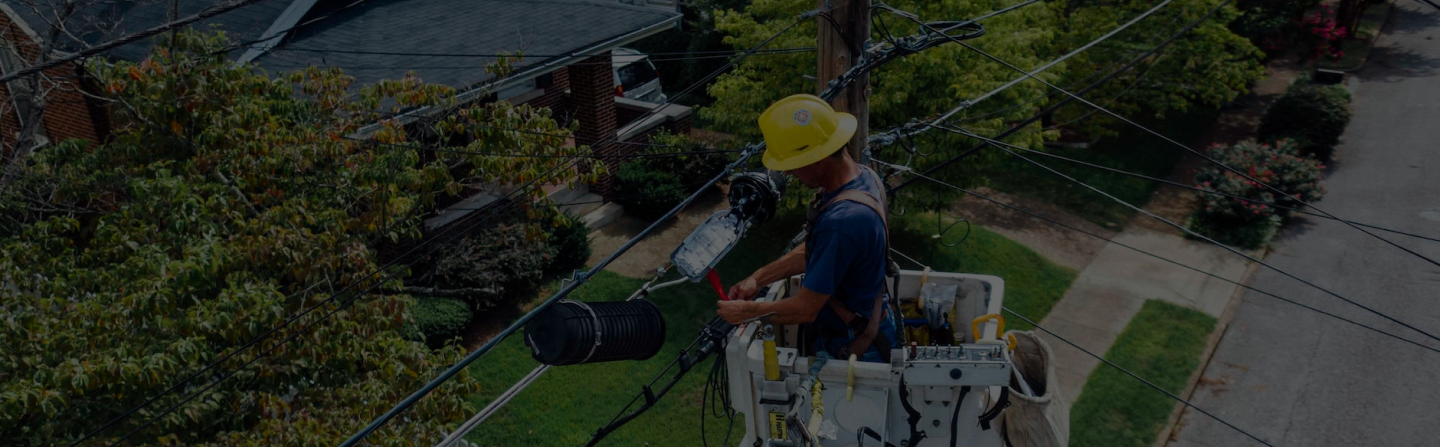
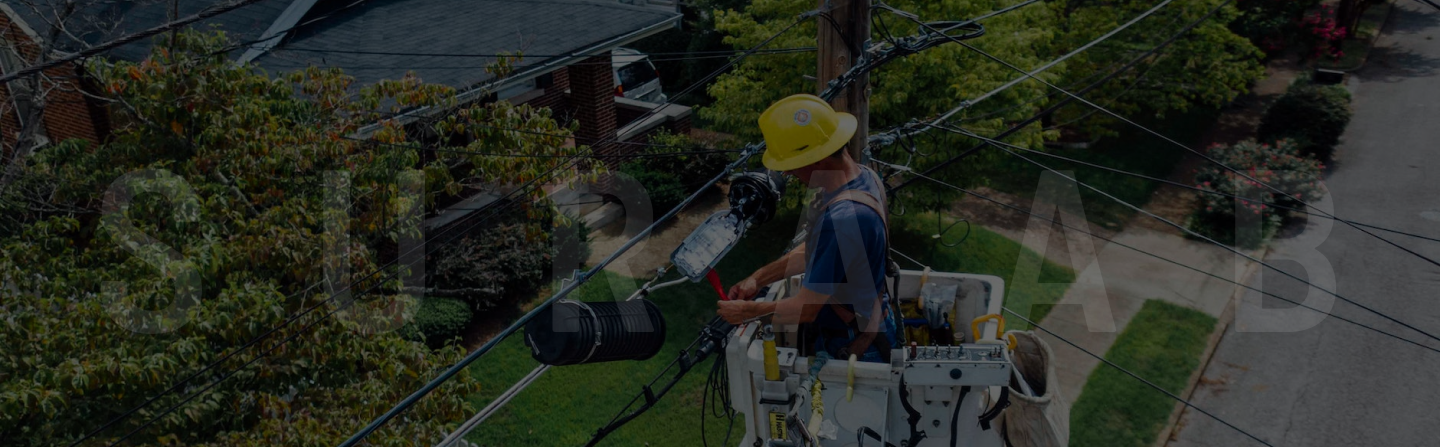
update: added backdrop images

diff --git a/src/pages/service/content/section2/Section2.jsx b/src/pages/service/content/section2/Section2.jsx
@@ -20,20 +20,20 @@ const Section2 = () => {
             />
             <div className="grid grid-cols-1 gap-4">
               <h4 className="medium-text text-center lg:text-start">Electrical Troubleshooting</h4>
-              <p className=" text-center lg:text-start">
+              <p className=" text-center lg:text-start w-full lg:w-11/12">
                 Lorem ipsum dolor sit amet consectetur. Eget fames dignissim dui
-                eu quam quisque nunc in. Nam <br /> auctor vulputate ultrices
-                tincidunt. Mus quis dignissim adipiscing viverra et. Rutrum sit <br />
+                eu quam quisque nunc in. Nam auctor vulputate ultrices
+                tincidunt. Mus quis dignissim adipiscing viverra et. Rutrum sit
                 sem pellentesque laoreet arcu nisl imperdiet. Sodales lectus
-                consequat dignissim <br /> facilisis in at in vivamus magna.
+                consequat dignissim facilisis in at in vivamus magna.
               </p>
-              <h4 className="medium text-center lg:text-start">Our Installation Methods</h4>
+              <h4 className="text-xl font-semibold text-center lg:text-start">Our Installation Methods</h4>
               <div className="flex  gap-2 items-center">
                 <span>
                   <img src={check} alt="" />
                 </span>
-                <p>
-                  We bring a level of craftsmanship to our projects that <br />
+                <p className="w-full lg:w-1/2">
+                  We bring a level of craftsmanship to our projects that 
                   reflects our dedication to quality and precision.
                 </p>
               </div>
@@ -41,9 +41,9 @@ const Section2 = () => {
                 <span>
                   <img src={check} alt="" />
                 </span>
-                <p className="pb-2">
-                  Subhar Electricals introduces innovative practices to <br /> enhance
-                  the efficiency and sustainability of electrical <br /> systems.
+                <p className="pb-2 w-full lg:w-1/2">
+                  Subhar Electricals introduces innovative practices to enhance
+                  the efficiency and sustainability of electrical systems.
                 </p>
               </div>
              <div className="flex justify-center lg:justify-start">
@@ -59,19 +59,19 @@ const Section2 = () => {
             />
             <div className="grid grid-cols-1 gap-3">
               <h4 className="medium-text text-center lg:text-start">Lighting Installations</h4>
-              <p className="text-center lg:text-start">
+              <p className="text-center lg:text-start w-full lg:w-11/12">
                 Lorem ipsum dolor sit amet consectetur. Eget fames dignissim dui
                 eu quam quisque nunc in. Nam auctor vulputate ultrices
                 tincidunt. Mus quis dignissim adipiscing viverra et. Rutrum sit
                 sem pellentesque laoreet arcu nisl imperdiet. Sodales lectus
                 consequat dignissim facilisis in at in vivamus magna.
               </p>
-              <h4 className="medium-text text-center lg:text-start">Our Installation Methods</h4>
+              <h4 className="text-xl font-semibold text-center lg:text-start">Our Installation Methods</h4>
               <div className="flex gap-2 items-center">
                 <span>
                   <img src={check} alt="" />
                 </span>
-                <p className="">
+                <p className="w-full lg:w-1/2">
                   We bring a level of craftsmanship to our projects that
                   reflects our dedication to quality and precision.
                 </p>
@@ -80,7 +80,7 @@ const Section2 = () => {
                 <span>
                   <img src={check} alt="" />
                 </span>
-                <p className="pb-2">
+                <p className="pb-2 w-full lg:w-1/2">
                   Subhar Electricals introduces innovative practices to enhance
                   the efficiency and sustainability of electrical systems.
                 </p>
@@ -99,9 +99,8 @@ const Section2 = () => {
             />
             <div className="grid grid-cols-1 gap-3">
               <h4 className="medium-text text-center lg:text-start">Electrical Maintenance</h4>
-              <p className=" text-center lg:text-start pb-2">
-              Lorem ipsum dolor sit amet consectetur. Fermentum ut arcu morbi turpis neque. Amet malesuada vivamus egestas rhoncus ultrices. Phasellus aliquam magna aliquam pellentesque pretium. Quis vitae molestie aliquam nibh tincidunt in quam vestibulum. Tortor eget varius diam mauris volutpat vitae urna. Adipiscing imperdiet interdum pellentesque nulla convallis mattis quam. Ultrices porttitor ridiculus ac sed odio vitae lorem. Pellentesque ac pulvinar magna aliquet dictumst. Nulla diam lorem id orci gravida. Quam dictum sed sit bibendum et congue vel dui. Egestas tincidunt nec sit rhoncus nibh. Quis risus vestibulum risus pretium in neque malesuada amet lobortis.
-Habitant molestie in eget et dictumst. Praesent eu sed sollicitudin urna tempor senectus eros. Placerat ut nunc.
+              <p className=" text-center lg:text-start pb-2 w-full lg:w-11/12">
+              Lorem ipsum dolor sit amet consectetur. Fermentum ut arcu morbi turpis neque. Amet malesuada vivamus egestas rhoncus ultrices. Phasellus aliquam magna aliquam pellentesque pretium. Quis vitae molestie aliquam nibh tincidunt in quam vestibulum. Tortor eget varius diam mauris volutpat vitae urna. Adipiscing imperdiet interdum pellentesque nulla convallis mattis quam. Ultrices porttitor ridiculus ac sed odio vitae lorem. Pellentesque ac pulvinar magna aliquet dictumst. Nulla diam lorem id orci gravida. Quam dictum sed sit bibendum et congue vel dui. Egestas tincidunt nec sit rhoncus nibh. Quis risus vestibulum risus pretium in neque malesuada amet lobortis.Habitant molestie in eget et dictumst. Praesent eu sed sollicitudin urna tempor senectus eros. Placerat ut nunc.
               </p>
              
               <div className="flex justify-center lg:justify-start">

diff --git a/src/layout/sharedLayout/why/WhySection.jsx b/src/layout/sharedLayout/why/WhySection.jsx
@@ -8,17 +8,17 @@ const WhySection = () => {
     <div className="bg-red-500">
       <div className="w-11/12 mx-auto text-white-100 text-center lg:text-left leading-9 py-14 responsive">
         <div className="py-3">
-          <h3 className="text-center text-white-100 medium-text">WHY SURAAB ?</h3>
-          <h2 className="text-center text-white-100 large-text py-5 w-full lg:w-2/3 mx-auto">
+          <h4 className="text-center text-white-100 medium-text">WHY SURAAB</h4>
+          <h1 className="text-center text-white-100 large-text py-3 w-full lg:w-3/4 mx-auto">
             Lorem ipsum dolor sit amet consectetur. Lobortis porttitor
-          </h2>
+          </h1>
         </div>
         <div className="py-5 grid grid-cols-1 gap-5 lg:grid-cols-3 lg:gap-10">
           <div className="flex flex-col gap-4 justify-center lg:justify-start items-center lg:items-start">
             <div className="img-card justify-center lg:justify-start items-center lg:items-start">
               <img className=" " src={experience} alt="" />
             </div>
-            <h1 className="text-white-100 large-text">Premium Service</h1>
+            <h1 className="text-white-100 medium-text">Premium Service</h1>
             <p>
               Lorem ipsum dolor sit amet consectetur. Lobortis porttitor
               condimentum fusce nisl. Ultricies cursus amet ut porttitor
@@ -31,7 +31,7 @@ const WhySection = () => {
             <div className="img-card  flex justify-center lg:justify-start items-center lg:items-start">
               <img className="" src={shield} alt="" />
             </div>
-            <h1 className="text-white-100 large-text">Experienced Team</h1>
+            <h1 className="text-white-100 medium-text">Experienced Team</h1>
             <p>
               Lorem ipsum dolor sit amet consectetur. Lobortis porttitor
               condimentum fusce nisl. Ultricies cursus amet ut porttitor
@@ -43,7 +43,7 @@ const WhySection = () => {
             <div className="img-card flex justify-center lg:justify-start items-center lg:items-start">
               <img className="" src={pricing} alt="" />
             </div>
-            <h1 className="text-white-100 large-text">Affordable Pricing</h1>
+            <h1 className="text-white-100 medium-text">Affordable Pricing</h1>
             <p>
               Lorem ipsum dolor sit amet consectetur. Lobortis porttitor
               condimentum fusce nisl. Ultricies cursus amet ut porttitor

diff --git a/src/layout/sharedLayout/testimonial/Testimonial.jsx b/src/layout/sharedLayout/testimonial/Testimonial.jsx
@@ -5,7 +5,7 @@ const Testimonial = () => {
   return (
     <div>
       <div className=" w-11/12 mx-auto py-10 responsive ">
-        <p className="text-center large-text">WHAT OUR CUSTOMERS SAY</p>
+        <p className="text-center medium-text font-bold text-black-100 pb-3">WHAT OUR CUSTOMERS SAY</p>
         <h2 className="text-red-400 text-center large-text">
           Don’t Just Take Our Word For It.
         </h2>
@@ -13,7 +13,7 @@ const Testimonial = () => {
         <div className="p-7 border-x-black-500 border-2 relative">
             <img src={apostropheR} className=' absolute top-7 right-0 px-3' alt="" />
             <img src={apostropheL} alt="" className='absolute top-7 left-0 px-3'  />
-            <p className="medium-text px-3 ">
+            <p className=" px-3 text-base lg:text-lg font-medium ">
               Lorem ipsum dolor sit amet consectetur. Sed iaculis et sapien
               neque. Lectus felis eu adipiscing dolor ut eget iaculis mauris
               nec. Purus rhoncus vel id tortor nulla dictum duis at vestibulum.
@@ -22,7 +22,7 @@ const Testimonial = () => {
               Vivamus diam enim commodoi.
             </p>
           
-            <div className='flex justify-center items-center gap-4 py-4'>
+            <div className='flex justify-center items-center gap-4 py-5'>
               <span>
                 <img className='profile-img' src={profileImg} alt="" />
               </span>
@@ -35,7 +35,7 @@ const Testimonial = () => {
           <div className="p-7 border-x-black-500 border-2 relative">
             <img src={apostropheR} className=' absolute top-7 right-0 px-3' alt="" />
             <img src={apostropheL} alt="" className='absolute top-7 left-0 px-3'  />
-            <p className="medium-text px-3 ">
+            <p className="text-base lg:text-lg px-3 font-medium ">
               Lorem ipsum dolor sit amet consectetur. Sed iaculis et sapien
               neque. Lectus felis eu adipiscing dolor ut eget iaculis mauris
               nec. Purus rhoncus vel id tortor nulla dictum duis at vestibulum.
@@ -44,7 +44,7 @@ const Testimonial = () => {
               Vivamus diam enim commodo.
             </p>
           
-            <div className='flex justify-center items-center gap-4 py-4'>
+            <div className='flex justify-center items-center gap-4 py-5'>
               <span>
                 <img className=' profile-img' src={profileImg} alt="" />
               </span>

diff --git a/src/pages/home/content/Section3/Section3.jsx b/src/pages/home/content/Section3/Section3.jsx
@@ -10,21 +10,21 @@ const Section3 = () => {
     <div className=' section-body py-14 '>
         <div className='w-11/12 responsive text-center'>
         <div className='text-center '>
-            <p className='medium-text'>OUR SERVICES</p>
+            <h4 className='medium-text text-black-100'>OUR SERVICES</h4>
             <h1 className='large-text  w-full lg:w-6/12 mx-auto'>Explore Our Services At Suraab Electricals</h1>
         </div>
         <div className='grid grid-cols-1 gap-14 lg:grid-cols-3 py-10'>
-            <div className='bg-white-100 p-6 flex justify-center items-center flex-col gap-5 img-box '>
+            <div className='bg-white-100 p-5 flex justify-center items-center flex-col gap-5 img-box '>
               <img src={trouble_shooting} alt="" />
               <h1 className='medium-text'>Electrical Trouble Shooting</h1>
               <p>We bring a level of craftsmanship to our projects that reflects our dedication to quality and precision.</p>
             </div>
-            <div className='bg-white-100 p-6 flex justify-center items-center flex-col gap-5 img-box'>
+            <div className='bg-white-100 p-5 flex justify-center items-center flex-col gap-5 img-box'>
               <img src={lightning} alt="" />
               <h1 className='medium-text'>Lightning Installations</h1>
               <p>We bring a level of craftsmanship to our projects that reflects our dedication to quality and precision.</p>
             </div>
-            <div className='bg-white-100 p-6 flex justify-center items-center flex-col gap-5 img-box'>
+            <div className='bg-white-100 p-5 flex justify-center items-center flex-col gap-5 img-box'>
               <img src={maintenance} alt="" />
               <h1 className='medium-text'>Electrical Maintenance</h1>
               <p>We bring a level of craftsmanship to our projects that reflects our dedication to quality and precision.</p>

diff --git a/src/pages/home/content/Section2/Section2.jsx b/src/pages/home/content/Section2/Section2.jsx
@@ -21,9 +21,9 @@ const Section2 = () => {
                 </div>
               <div className='relative'>
               <div className='bg-white-100 shadow-2xl p-7 z-20 xl:absolute lg:-top-32 xl:-top-36 xl:-left-12 '>
-                    <p className='py-4 text-center lg:text-start medium-text'>WHO WE ARE</p>
-                    <h1 className='large-text text-center lg:text-start'>Lorem ipsum dolor sit amet consectetur. Cras lorem.</h1>
-                    <p className='medium-text text-center lg:text-start'>Lorem ipsum dolor sit amet consectetur. Quam non habitasse vel nam tincidunt odio arcu. Et lacus commodo in leo faucibus vel volutpat suscipit. Eu natoque nullam diam augue quam non. Ut adipiscing augue dui magna ante justo enim. Risus non nulla facilisi arcu. Gravida enim id mi suspendisse pellentesque. Vitae sit maecenas neque eu ut. Dignissim sollicitudin orci odio egestas mi libero mattis. Venenatis scelerisque amet volutpat lorem. </p>
+                    <h4 className='py-4 text-center lg:text-start medium-text'>WHO WE ARE</h4>
+                    <h1 className='text-4xl pb-4 text-center lg:text-start text-red-400'>Lorem ipsum dolor sit amet consectetur. Cras lorem.</h1>
+                    <p className='text-center lg:text-start'>Lorem ipsum dolor sit amet consectetur. Quam non habitasse vel nam tincidunt odio arcu. Et lacus commodo in leo faucibus vel volutpat suscipit. Eu natoque nullam diam augue quam non. Ut adipiscing augue dui magna ante justo enim. Risus non nulla facilisi arcu. Gravida enim id mi suspendisse pellentesque. Vitae sit maecenas neque eu ut. Dignissim sollicitudin orci odio egestas mi libero mattis. Venenatis scelerisque amet volutpat lorem. </p>
                     <div className='py-7 flex justify-center items-center lg:justify-start lg:items-start'>
                         <ContactBtn/>
                     </div>

diff --git a/src/pages/about/meetUs/MeetTeam.jsx b/src/pages/about/meetUs/MeetTeam.jsx
@@ -15,29 +15,29 @@ const MeetTeam = () => {
         <div className="text-center lg:text-start">
           <img src={frame1} alt="" className="w-full" />
           <div className="flex flex-col gap-1">
-            <p className="py-2">Benjamin White</p>
-            <h2 className="text-black-100 medium-text">Electrician</h2>
+            <p className="py-1">Benjamin White</p>
+            <h2 className="text-black-100 ">Electrician</h2>
           </div>
         </div>
         <div className="text-center lg:text-start">
           <img src={frame2} alt="" />
           <div className="flex flex-col gap-1">
-            <p className="py-2">Benjamin White</p>
-            <h2 className="text-black-100 medium-text">Electrician</h2>
+            <p className="py-1">Benjamin White</p>
+            <h2 className="text-black-100 ">Electrician</h2>
           </div>
         </div>
         <div className="text-center lg:text-start">
           <img src={frame3} alt="" />
           <div className="flex flex-col gap-1">
-            <p className="py-2">Benjamin White</p>
-            <h2 className="text-black-100 medium-text">Electrician</h2>
+            <p className="py-1">Benjamin White</p>
+            <h2 className="text-black-100 ">Electrician</h2>
           </div>
         </div>
         <div className="text-center lg:text-start">
           <img src={frame4} alt="" />
           <div className="flex flex-col gap-1">
-            <p className="py-2">Benjamin White</p>
-            <h2 className="text-black-100 medium-text">Electrician</h2>
+            <p className="py-1">Benjamin White</p>
+            <h2 className="text-black-100 ">Electrician</h2>
           </div>
         </div>
       </div>

diff --git a/src/pages/home/content/heroSection/HeroSection.jsx b/src/pages/home/content/heroSection/HeroSection.jsx
@@ -5,11 +5,11 @@ const HeroSection = () => {
   return (
     <div>
        <div className=' flex justify-center items-center'>
-       <div className=' absolute  left-0 right-0 flex top-24 lg:top-28 z-40 justify-center items-center lg:justify-start'>
+       <div className=' absolute  left-0 right-0 flex top-24 lg:top-24 z-40 justify-center items-center lg:justify-start'>
           <div className='w-11/12 mx-auto responsive '>
-          <div className= 'w-full pt-5 '>
-           <h1 className='lg:w-1/2 large-text text-white-100 text-center lg:text-start  pt-3  md:pt-10'><span className='large-text text-red-400 text-center lg:text-start 2xl:text-4xl'>Illuminate</span> Your Home  With Suraab Electrical Services</h1>
-           <p className='lg:w-1/2 py-5 text-white-100 text-center lg:text-start '>At Suraab, we go beyond the wires and circuits – we empower homes with solutions that prioritize efficiency, reliability, and your peace of mind.</p>
+          <div className= 'w-full pt-5 lg:w-1/2 '>
+           <h1 className='w-full hero-text text-white-100 text-center lg:text-start pt-3 md:pt-10'><span className='hero-text text-red-400 text-center lg:text-start'>Illuminate</span> Your Home  With Suraab Electrical Services</h1>
+           <p className='py-5 text-white-100 text-center lg:text-start  '>At Suraab, we go beyond the wires and circuits – we empower homes with solutions that prioritize efficiency, reliability, and your peace of mind.</p>
            <div className='flex justify-center lg:justify-start items-center lg:items-start '>
            <ContactBtn/>
            </div>

diff --git a/src/pages/about/mission/OurMission.jsx b/src/pages/about/mission/OurMission.jsx
@@ -20,24 +20,24 @@ const OurMission = () => {
             </div>
             <div className="grid grid-cols-1 gap-3">
               <h1 className="large-text font-bold text-center lg:text-start">Our Mission at Suraab Electricals</h1>
-              <p className="medium-text text-center lg:text-start">
+              <p className=" text-center lg:text-start w-full lg:w-4/5 ">
               our mission is to redefine excellence in electrical solutions, illuminating homes and lives with a commitment to safety, reliability, and innovation. We embark on this mission
               </p>
              
-              <div className="flex  gap-2 items-center">
+              <div className="flex  gap-3 items-center">
                 <span>
                   <img src={check} alt="" />
                 </span>
-                <p className="medium-text ">
+                <p className="w-full lg:w-3/4">
                   We bring a level of craftsmanship to our projects that
                   reflects our dedication to quality and precision.
                 </p>
               </div>
-              <div className="flex gap-2 items-center ">
+              <div className="flex gap-3 items-center ">
                 <span>
                   <img src={check} alt="" />
                 </span>
-                <p className="medium-text">
+                <p className="pb-4 w-full lg:w-3/4">
                   Subhar Electricals introduces innovative practices to enhance
                   the efficiency and sustainability of electrical systems.
                 </p>

diff --git a/src/layout/sharedLayout/contactus/ContactUs.jsx b/src/layout/sharedLayout/contactus/ContactUs.jsx
@@ -24,15 +24,15 @@ const ContactUs = () => {
   return (
     <div className="contact-background flex flex-col items-center justify-center">
       <div className="text-white-100 py-10 text-center w-11/12 mx-auto grid grid-cols-1 gap-7 ">
-        <h1 className="text-white-100 large-text ">
-          Ready to Book Your First <br /> Service
+        <h1 className="text-white-100 large-text w-full lg:w-3/5 xl:w-3/6 mx-auto">
+          Ready to Book Your First  Service
         </h1>
-        <p className="w-full lg:w-3/5 mx-auto ">
+        <p className=" ">
           Our mission is to redefine excellence in electrical solutions,
-          illuminating homes and lives with a commitment to safety, reliability,
+          illuminating homes and lives with a <br /> commitment  to safety, reliability,
           and innovation. We embark on this mission
         </p>
-        <div className="w-full mx-auto lg:w-3/4">
+        <div className="w-full mx-auto lg:w-3/4 xl:w-3/5">
           <form
             onSubmit={handleSubmit(onSubmit)}
             className="py-5 w-full flex justify-center items-center"

diff --git a/src/pages/about/hero/HeroSection.jsx b/src/pages/about/hero/HeroSection.jsx
@@ -6,15 +6,15 @@ const HeroSection = () => {
   return (
     <div className="about-bg flex items-center justify-center ">
       <div className="py-10 text-center">
-        <h1 className="text-white-100 large-text pt-24">About</h1>
+        <h1 className="text-white-100 large-text pt-24 ">About</h1>
         <span className="flex justify-center items-center gap-2 py-5 ">
           <Link to="/">
-          <p className="text-black-100">Home</p>
+          <p className="text-black-100 medium-text">Home</p>
           </Link>
           <span>
             <img src={img} alt="" />
           </span>
-          <h5 className="text-white-100">Service</h5>
+          <h5 className="text-white-100 ">Service</h5>
         </span>
       </div>
     </div>

diff --git a/src/layout/sharedLayout/fadedCarousel/FadedCarousel.scss b/src/layout/sharedLayout/fadedCarousel/FadedCarousel.scss
@@ -5,8 +5,8 @@
   display: flex;
   height: auto ;
   width: 100%;
-  min-height: fn.rem(500);
-  max-height: fn.rem(500);
+  min-height: fn.rem(600);
+  max-height: fn.rem(600);
 }
 
 .carousel_card {
@@ -15,8 +15,8 @@
   position: absolute;
   width: 100%;
   height: 100%;
-  min-height: fn.rem(500);
-  max-height: fn.rem(500);
+  min-height: fn.rem(600);
+  max-height: fn.rem(600);
   overflow: hidden;
   -webkit-box-shadow: 0px 0px 11px 3px color.$black-600;
   box-shadow: 0px 0px 11px 3px color.$black-600;

diff --git a/src/pages/home/content/Section3/section3.scss b/src/pages/home/content/Section3/section3.scss
@@ -5,12 +5,16 @@
 
 .section-body{
   background-color: color.$red-300;
+  background-image: url('../../../../assets/naked-wire.png'), url('../../../../assets/riple-effect.png');
+  background-repeat: no-repeat;
+  background-position: 0% 1s0%, right top;
   .responsive{
     @include mixins.responsive;
 
     @media(width > 1024px){
       .img-box{
-        max-width: fn.rem(363);
+        max-width: fn.rem(361);
+        height: fn.rem(327);
         margin: auto;
       }
     }
